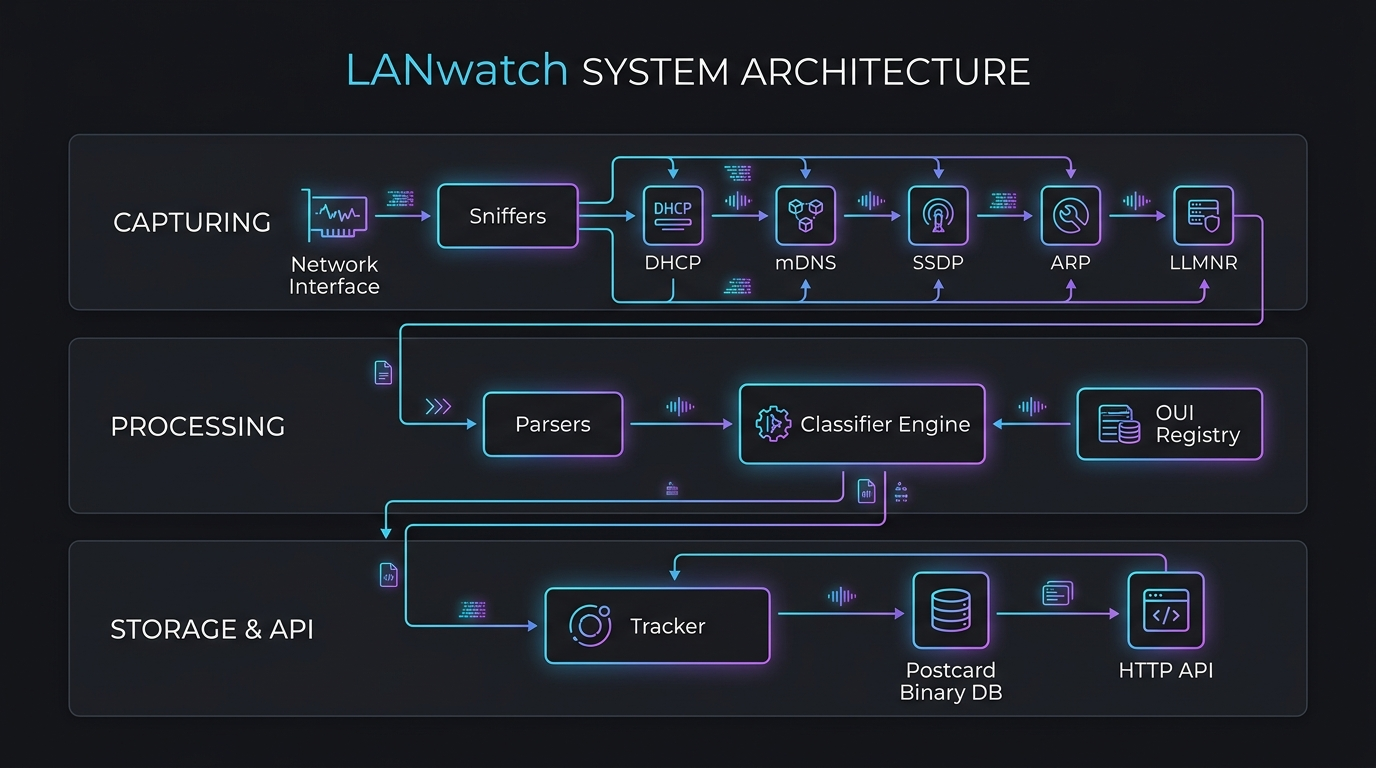
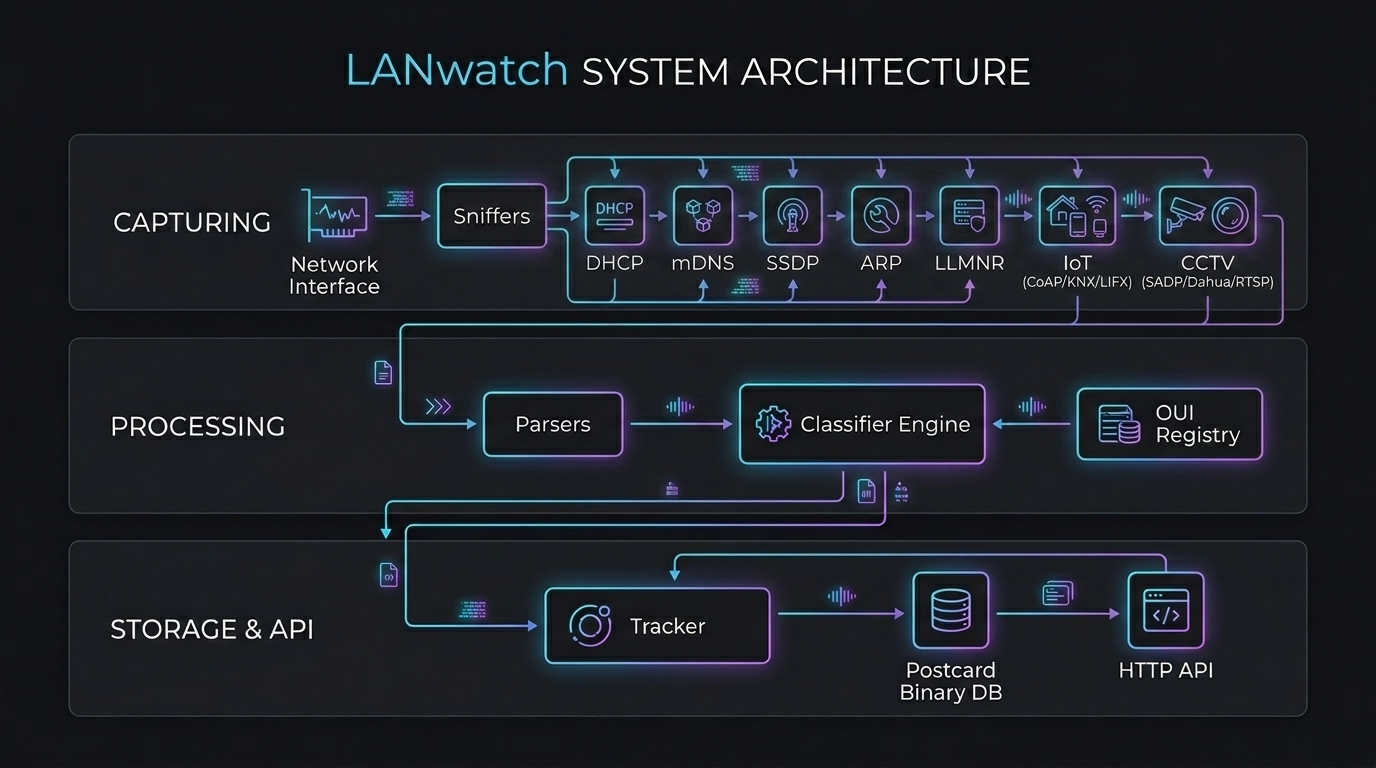
Update README to document the new IoT (CoAP/KNX/LIFX) and CCTV (SADP/Dahua/RTSP) protocols

Changed region(s): [[0.3438, 0.1875, 0.9375, 0.4375], [0.8125, 0.5312, 0.8438, 0.5625], [0.2812, 0.25, 0.3125, 0.2812]]

diff --git a/README.md b/README.md
@@ -17,6 +17,9 @@ A Rust library and CLI tool for network device discovery and tracking via DHCP, 
 - **WS-Discovery (WSD) Sniffing** (optional): Passive sniffing of SOAP XML multicast probe traffic on UDP port 3702 to discover network hardware, PCs, and IP Cameras. Gated under `ssdp` feature.
 - **mDNS TXT Record Parsing**: Extracts model, md, and ty metadata from DNS-SD records to identify specific hardware devices (Apple TV, Chromecast, Sonos speakers, and printer models)
 - **Device Classification**: Expanded classification engine mapping hostnames, mDNS TXT metadata, and service fingerprints to specific device types and vendors (Roku, Sonos, Apple TV, Google Chromecast, ESP32 IoT, Raspberry Pi, Synology NAS, Playstation, Xbox, Nintendo, smart plugs, printers, etc.)
+- **Smart Home & IoT Discovery**: Extracts model and vendor metadata from HomeKit (HAP) and Matter service advertisements (Google, Apple, Amazon, Eve, Signify/Philips Hue, Aqara, IKEA, Nanoleaf, Tuya, Somfy, TP-Link, Lutron, Yale, Belkin, Bosch, etc.)
+- **Specialized IoT & Constrained Protocols**: Captures and parses CoAP (Constrained Application Protocol) on UDP port 5683 and KNXnet/IP building automation traffic on UDP port 3671 to dynamically identify sensors, smart lights, smart plugs, and home automation systems
+- **IP Camera & CCTV Discovery (Physical Security)**: Identifies physical security hardware by parsing Hikvision SADP (port 9999) XML discovery messages, Dahua discovery (port 37810) JSON payloads, and active RTSP (TCP port 554) video streams
 - **IEEE OUI Database**: Built-in vendor identification from MAC addresses using IEEE OUI (Organizationally Unique Identifier) prefixes (40,000+ entries)
 - **Device Tracking**: Automatically track detected devices and persist them using the fast, compact, and transactional-ready Postcard binary serialization format.
 - **Legacy CSV Migration**: Auto-detects legacy CSV format databases on startup and seamlessly migrates them to the new Postcard format.
@@ -489,6 +492,21 @@ Under the `ssdp` feature gate, LANwatch passively listens to UDP port 3702 WS-Di
 ### mDNS TXT Record Parsing
 
 When processing mDNS traffic under the `mdns` feature gate, LANwatch extracts key-value parameters from TXT records (such as `model`, `md`, or `ty`). These hardware and model descriptors (e.g., `AppleTV14,1`, `Sonos Play:1`, or printer models) are cross-referenced to determine exact manufacturer and device classifications.
+
+### Smart Home & IoT Discovery (Matter & HomeKit)
+
+Under the `mdns` feature gate, LANwatch monitors mDNS announcements to extract metadata from HomeKit Accessory Protocol (`_hap._tcp`) and Matter (`_matter._tcp`) service instances. It decodes Manufacturer, Model, Category Identifier (determining device type like Outlet, Smart Light, Sensor, Bridge), and Pairing status.
+
+### Constrained & Building Automation Protocols (CoAP & KNXnet/IP)
+
+Under the `ssdp` feature gate, LANwatch passively sniffs UDP port 5683 to parse CoAP (Constrained Application Protocol) payloads (e.g., CoRE Link Format) and UDP port 3671 to parse KNXnet/IP building automation traffic, dynamically categorizing sensors, smart bulbs, switches, and home automation systems.
+
+### IP Camera & CCTV Discovery (Physical Security)
+
+Under the `ssdp` feature gate, LANwatch sniffs physical security endpoints via:
+- **Hikvision SADP**: Sniffing UDP port 9999 for SOAP XML probe/response frames, extracting exact model names and serial numbers.
+- **Dahua Discovery**: Sniffing UDP port 37810 JSON-over-UDP frames, parsing camera models, MACs, and serial numbers.
+- **RTSP Active Traffic**: Sniffing TCP port 554 connections to identify generic surveillance and media streaming cameras.
 
 ## Development and Build Automation
 
